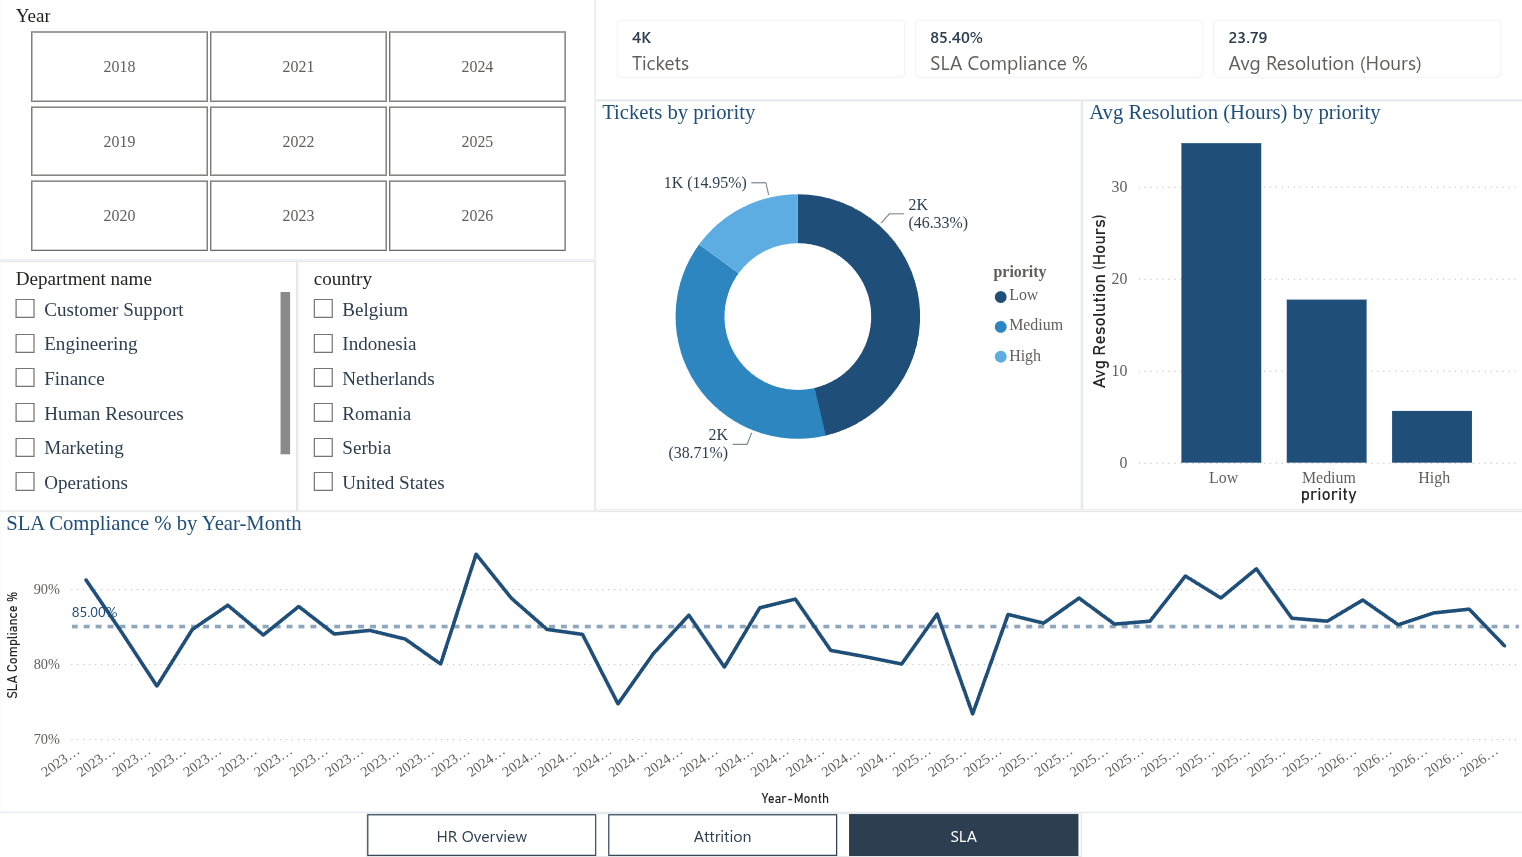
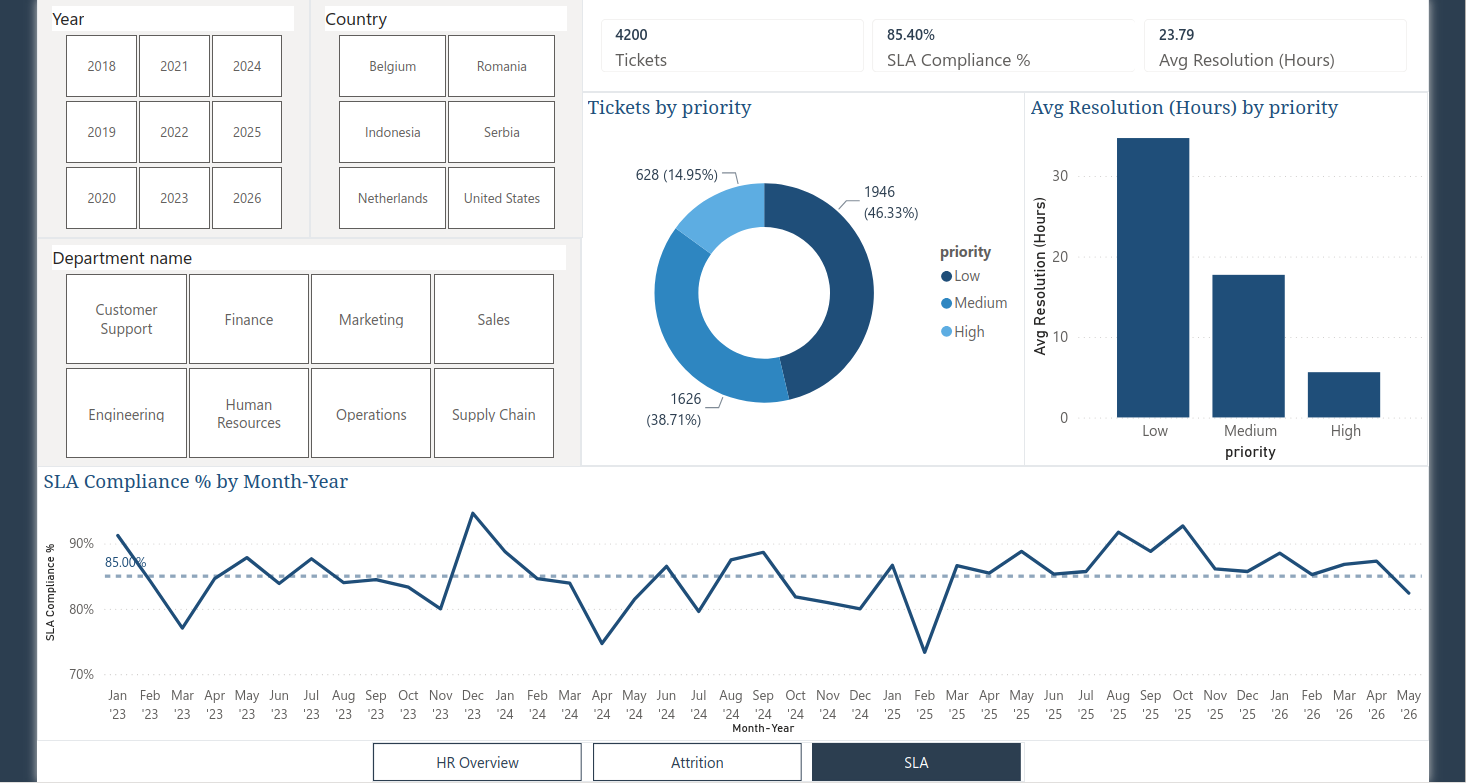
Add files via upload

diff --git a/README.md b/README.md
@@ -1,6 +1,6 @@
 # HR Analytics Dashboard (Power BI)
 
-An end-to-end HR analytics dashboard built in **Power BI** on a **star-schema** data model. Three report pages cover workforce, attrition, and HR service-desk SLAs, using point-in-time and time-intelligence **DAX** measures.
+An end-to-end HR analytics dashboard built in **Power BI** on a **star-schema** data model. Three report pages cover workforce, attrition, and HR service-desk SLAs, using point-in-time and time-intelligence **DAX** measures, with documented metric definitions and data-quality rules.
 
 **[Live interactive dashboard](https://app.powerbi.com/view?r=eyJrIjoiNWNkMDQ4ZWItZjdlNC00YTBlLThhYTEtMDAyN2YyMDE3YzhlIiwidCI6IjVhNGVmZTAwLTg2MjMtNGUyMS05ZDUwLTE0YzA5OWU2ZWU3OSIsImMiOjZ9)**
 
@@ -8,11 +8,11 @@ An end-to-end HR analytics dashboard built in **Power BI** on a **star-schema** 
 
 ## Pages
 
-**1. HR Overview:** point-in-time headcount, new hires, attrition rate, average tenure, diversity (female %), and headcount YoY; a monthly trend of hires and terminations vs. active headcount; headcount by department; slicers for year, department, and country.
+**1. HR Overview:** point-in-time headcount, new hires, annualized attrition rate, average tenure, diversity (female %), and headcount YoY; a monthly trend of hires and terminations vs. active headcount; headcount by department; slicers for year, department, and country, synced across all pages.
 
-**2. Attrition:** attrition rate by department with green-to-red conditional formatting; a department by year attrition heat-map (matrix); terminations by seniority.
+**2. Attrition:** annualized attrition rate by department; a department-by-year attrition heat-map (matrix) with a colorblind-safe sequential palette; terminations by seniority. Rates are suppressed for groups below a minimum headcount, and the page explains its own blanks via a dynamic, measure-driven subtitle.
 
-**3. SLA:** ticket volume, SLA compliance %, average resolution time; tickets by priority; average resolution by priority; and monthly SLA compliance against an 85% target line.
+**3. SLA:** ticket volume, SLA compliance %, average resolution time; tickets by priority; average resolution by priority; and monthly SLA compliance against an 85% target line. The year filter on this page only offers years with ticket data, and the page explains itself when a selection carried over from another page has no tickets.
 
 ## Data model (star schema)
 
@@ -24,12 +24,21 @@ An end-to-end HR analytics dashboard built in **Power BI** on a **star-schema** 
 
 - **Point-in-time Active Headcount:** counts everyone hired on or before the end of the selected period who has not left yet (`MAX(Date)` boundary plus `FILTER`), so it recalculates correctly across every month and by any breakdown (department, location, gender).
 - **New Hires / Terminations:** `USERELATIONSHIP` on the inactive hire and termination-date relationships.
-- **Attrition Rate %:** terminations divided by average monthly headcount over the period (not end headcount, to avoid understating it).
+- **Attrition Rate % (annualized):** terminations ÷ average monthly headcount, scaled to a 12-month basis (×12 / months in the selected period) so multi-year selections show a comparable average annual rate instead of a misleading cumulative one. Returns blank where average headcount < 10, because tiny denominators produce statistically unreliable percentages.
+- **Dynamic, measure-driven subtitles:** DAX measures return conditional text (bound to visuals via conditional formatting with field values), so the report explains suppressed or missing data instead of showing unexplained blanks.
 - **SLA Compliance %**, **Avg Resolution (Hours)**, **Headcount YoY %**, including time intelligence.
+
+## Metric definitions & data rules
+
+- **Active Headcount** — point-in-time: everyone hired on or before the end of the selected period whose termination date is blank or later than it.
+- **Attrition Rate %** — annualized (see above). Suppression rule: not shown where average headcount < 10.
+- **Current year** — partial-year figures are year-to-date, not annualized.
+- **SLA Compliance %** — share of tickets resolved within target hours; ticket data starts Jan 2023, and the SLA page's year filter only offers years with ticket data.
+- Filters are synced across pages; any visual that deliberately ignores a filter says so in its title.
 
 ## Skills demonstrated
 
-Power BI Desktop, DAX (CALCULATE, filter context, time intelligence, USERELATIONSHIP, point-in-time measures), Power Query (ETL and type handling), star-schema modeling, conditional formatting, role-playing dimensions, and publishing to the Power BI Service.
+Power BI Desktop, DAX (CALCULATE, filter context, time intelligence, USERELATIONSHIP, point-in-time measures), Power Query (ETL and type handling), star-schema modeling, conditional formatting, role-playing dimensions, publishing to the Power BI Service, dynamic measure-driven titles/subtitles (conditional formatting with field values), synced slicers, metric governance (suppression thresholds, documented definitions), and accessibility-aware design.
 
 ## Screenshots
 
@@ -45,4 +54,4 @@ Power BI Desktop, DAX (CALCULATE, filter context, time intelligence, USERELATION
 
 ---
 
-Built by Miloš Šarenac. [LinkedIn](https://www.linkedin.com/in/milo%C5%A1-%C5%A1arenac-033586141/)
+Built by Miloš Šarenac, using AI-assisted workflows with all metrics manually defined, validated, and documented. [LinkedIn](https://www.linkedin.com/in/milo%C5%A1-%C5%A1arenac-033586141/)